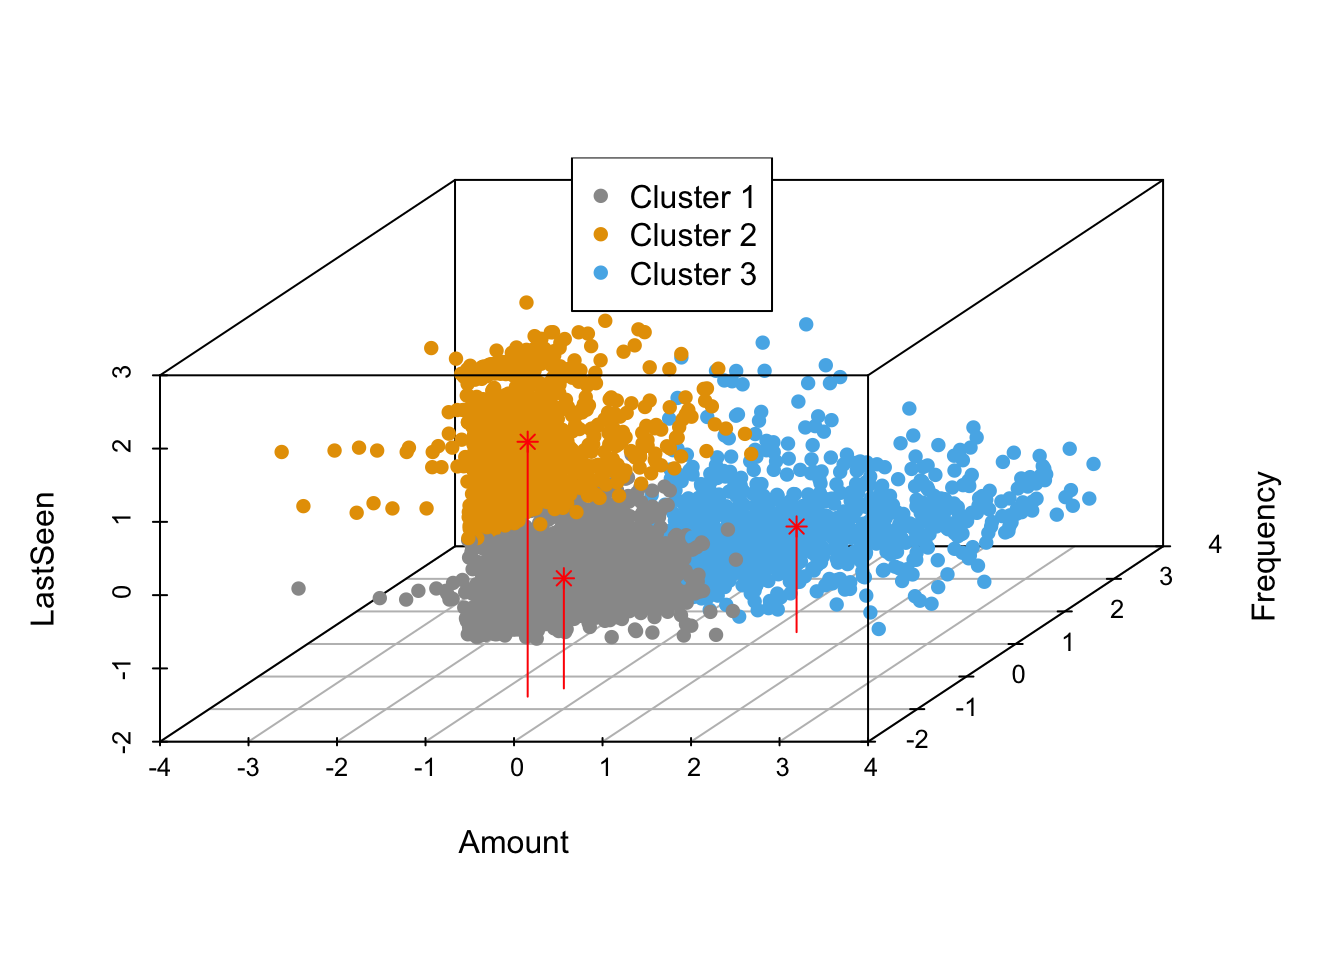
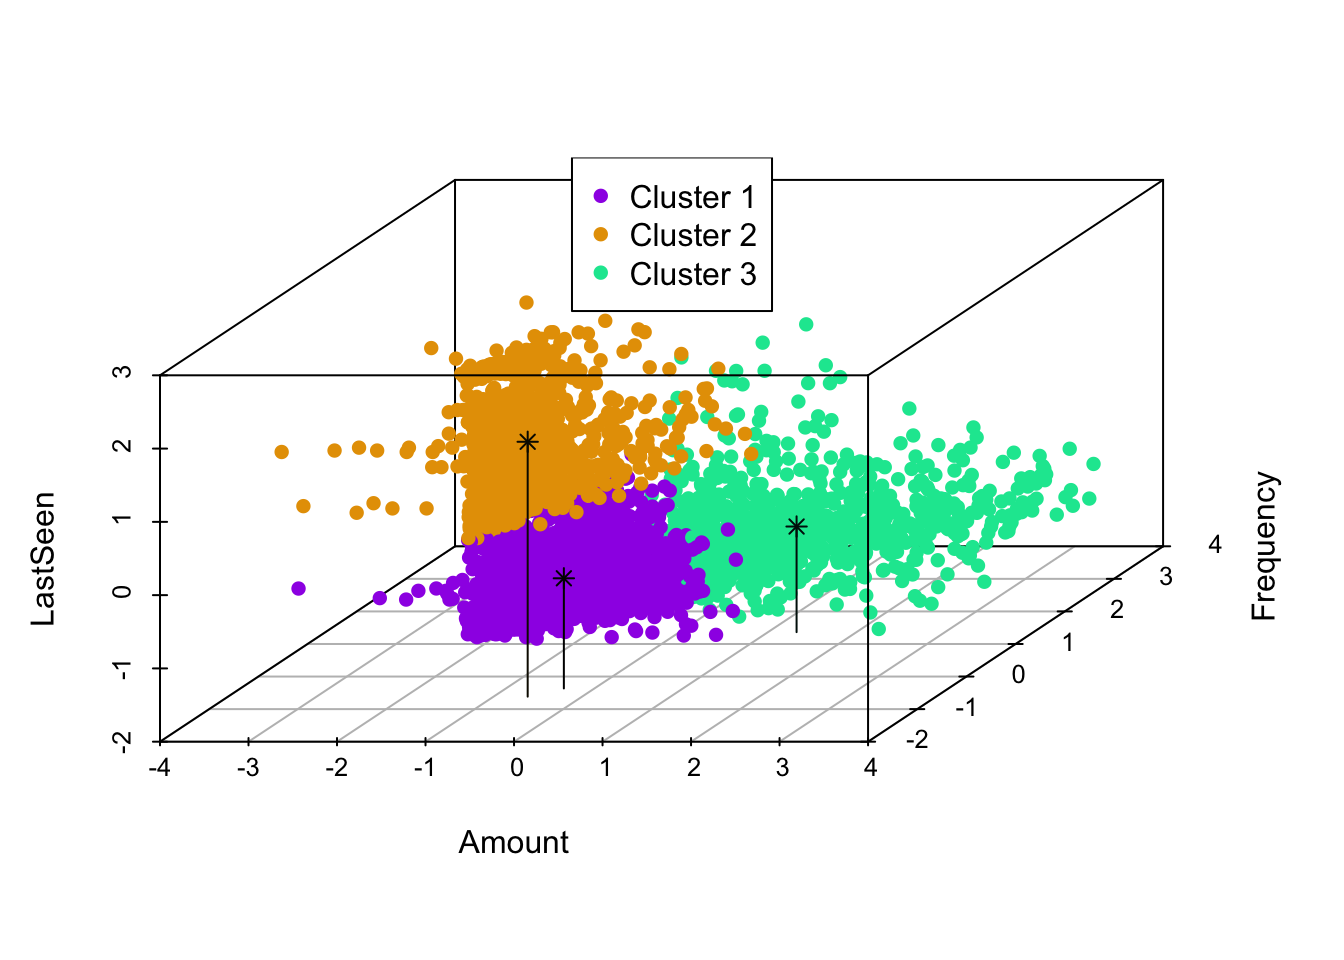
Anand's Changes

diff --git a/index.html b/index.html
@@ -861,28 +861,12 @@ K = 3
 <div class="cell">
 <details>
 <summary>Code</summary>
-<div class="sourceCode cell-code" id="cb17"><pre class="sourceCode r code-with-copy"><code class="sourceCode r"><span id="cb17-1"><a href="#cb17-1" aria-hidden="true" tabindex="-1"></a><span class="co"># centers &lt;- data.frame(c(1:3), m1.kmean$centers)</span></span>
-<span id="cb17-2"><a href="#cb17-2" aria-hidden="true" tabindex="-1"></a> </span>
-<span id="cb17-3"><a href="#cb17-3" aria-hidden="true" tabindex="-1"></a><span class="co"># names(centers)[names(centers) == "c.1.3."] &lt;- "Cluster"</span></span>
-<span id="cb17-4"><a href="#cb17-4" aria-hidden="true" tabindex="-1"></a> </span>
-<span id="cb17-5"><a href="#cb17-5" aria-hidden="true" tabindex="-1"></a></span>
-<span id="cb17-6"><a href="#cb17-6" aria-hidden="true" tabindex="-1"></a><span class="co"># centers</span></span>
-<span id="cb17-7"><a href="#cb17-7" aria-hidden="true" tabindex="-1"></a></span>
-<span id="cb17-8"><a href="#cb17-8" aria-hidden="true" tabindex="-1"></a></span>
-<span id="cb17-9"><a href="#cb17-9" aria-hidden="true" tabindex="-1"></a></span>
-<span id="cb17-10"><a href="#cb17-10" aria-hidden="true" tabindex="-1"></a><span class="co">#customer</span></span>
-<span id="cb17-11"><a href="#cb17-11" aria-hidden="true" tabindex="-1"></a> </span>
-<span id="cb17-12"><a href="#cb17-12" aria-hidden="true" tabindex="-1"></a><span class="co"># p &lt;- plot_ly(customer, x=~Amount, y=~Frequency,</span></span>
-<span id="cb17-13"><a href="#cb17-13" aria-hidden="true" tabindex="-1"></a><span class="co"># z=~LastSeen, color=~Cluster) %&gt;%</span></span>
-<span id="cb17-14"><a href="#cb17-14" aria-hidden="true" tabindex="-1"></a><span class="co">#      add_markers(size=1.5)</span></span>
-<span id="cb17-15"><a href="#cb17-15" aria-hidden="true" tabindex="-1"></a><span class="co"># print(p)</span></span>
-<span id="cb17-16"><a href="#cb17-16" aria-hidden="true" tabindex="-1"></a> </span>
-<span id="cb17-17"><a href="#cb17-17" aria-hidden="true" tabindex="-1"></a><span class="fu">fviz_cluster</span>(m1.kmean, <span class="at">data =</span> customer_scaled,</span>
-<span id="cb17-18"><a href="#cb17-18" aria-hidden="true" tabindex="-1"></a>             <span class="at">palette =</span> <span class="fu">c</span>(<span class="st">"#2E9FDF"</span>, <span class="st">"#00AFBB"</span>, <span class="st">"#E7B800"</span>),</span>
-<span id="cb17-19"><a href="#cb17-19" aria-hidden="true" tabindex="-1"></a>             <span class="at">geom =</span> <span class="st">"point"</span>,</span>
-<span id="cb17-20"><a href="#cb17-20" aria-hidden="true" tabindex="-1"></a>             <span class="at">ellipse.type =</span> <span class="st">"convex"</span>,</span>
-<span id="cb17-21"><a href="#cb17-21" aria-hidden="true" tabindex="-1"></a>             <span class="at">ggtheme =</span> <span class="fu">theme_bw</span>()</span>
-<span id="cb17-22"><a href="#cb17-22" aria-hidden="true" tabindex="-1"></a>)</span></code><button title="Copy to Clipboard" class="code-copy-button"><i class="bi"></i></button></pre></div>
+<div class="sourceCode cell-code" id="cb17"><pre class="sourceCode r code-with-copy"><code class="sourceCode r"><span id="cb17-1"><a href="#cb17-1" aria-hidden="true" tabindex="-1"></a><span class="fu">fviz_cluster</span>(m1.kmean, <span class="at">data =</span> customer_scaled,</span>
+<span id="cb17-2"><a href="#cb17-2" aria-hidden="true" tabindex="-1"></a>             <span class="at">palette =</span> <span class="fu">c</span>(<span class="st">"#2E9FDF"</span>, <span class="st">"#00AFBB"</span>, <span class="st">"#E7B800"</span>),</span>
+<span id="cb17-3"><a href="#cb17-3" aria-hidden="true" tabindex="-1"></a>             <span class="at">geom =</span> <span class="st">"point"</span>,</span>
+<span id="cb17-4"><a href="#cb17-4" aria-hidden="true" tabindex="-1"></a>             <span class="at">ellipse.type =</span> <span class="st">"convex"</span>,</span>
+<span id="cb17-5"><a href="#cb17-5" aria-hidden="true" tabindex="-1"></a>             <span class="at">ggtheme =</span> <span class="fu">theme_bw</span>()</span>
+<span id="cb17-6"><a href="#cb17-6" aria-hidden="true" tabindex="-1"></a>)</span></code><button title="Copy to Clipboard" class="code-copy-button"><i class="bi"></i></button></pre></div>
 </details>
 <div class="cell-output-display">
 <p><img src="index_files/figure-html/unnamed-chunk-26-1.png" class="img-fluid" width="672"></p>
@@ -902,6 +886,9 @@ K = 3
 <div class="cell-output-display">
 <p><img src="index_files/figure-html/unnamed-chunk-27-1.png" class="img-fluid" width="672"></p>
 </div>
+</div>
+<p>The above graph shows that the clusters 1 and 3 are seen in the store often. Cluster 3 customers are spending more whenever they visit. Cluster 2 not seen recently so spend less.</p>
+<div class="cell">
 <details>
 <summary>Code</summary>
 <div class="sourceCode cell-code" id="cb19"><pre class="sourceCode r code-with-copy"><code class="sourceCode r"><span id="cb19-1"><a href="#cb19-1" aria-hidden="true" tabindex="-1"></a><span class="fu">fviz_cluster</span>(m1.kmean, <span class="at">data =</span> customer_scaled,<span class="at">choose.vars =</span> <span class="fu">c</span>(<span class="st">"Frequency"</span>,<span class="st">"Amount"</span>),</span>
@@ -912,34 +899,43 @@ K = 3
 <span id="cb19-6"><a href="#cb19-6" aria-hidden="true" tabindex="-1"></a>             )</span></code><button title="Copy to Clipboard" class="code-copy-button"><i class="bi"></i></button></pre></div>
 </details>
 <div class="cell-output-display">
-<p><img src="index_files/figure-html/unnamed-chunk-27-2.png" class="img-fluid" width="672"></p>
+<p><img src="index_files/figure-html/unnamed-chunk-28-1.png" class="img-fluid" width="672"></p>
 </div>
+</div>
+<p>The above graph shows that the Cluster 3 are more frequently buying and hence spending more. Cluster 1 and 2 are almost having similar trends in terms of number of purchases and amount spent.</p>
+<div class="cell">
 <details>
 <summary>Code</summary>
 <div class="sourceCode cell-code" id="cb20"><pre class="sourceCode r code-with-copy"><code class="sourceCode r"><span id="cb20-1"><a href="#cb20-1" aria-hidden="true" tabindex="-1"></a><span class="fu">fviz_cluster</span>(m1.kmean, <span class="at">data =</span> customer_scaled,<span class="at">choose.vars =</span> <span class="fu">c</span>(<span class="st">"LastSeen"</span>,<span class="st">"Frequency"</span>),</span>
-<span id="cb20-2"><a href="#cb20-2" aria-hidden="true" tabindex="-1"></a>             <span class="at">palette =</span> <span class="fu">c</span>(<span class="st">"#2E9FDF"</span>, <span class="st">"#00AFBB"</span>, <span class="st">"#E7B800"</span>),</span>
+<span id="cb20-2"><a href="#cb20-2" aria-hidden="true" tabindex="-1"></a>             <span class="at">palette =</span> <span class="fu">c</span>(<span class="st">"#2E9FDF"</span>, <span class="st">"#00AFBB"</span>, <span class="st">"#E7B800"</span>), </span>
 <span id="cb20-3"><a href="#cb20-3" aria-hidden="true" tabindex="-1"></a>             <span class="at">geom =</span> <span class="st">"point"</span>,</span>
-<span id="cb20-4"><a href="#cb20-4" aria-hidden="true" tabindex="-1"></a>             <span class="at">ellipse.type =</span> <span class="st">"convex"</span>,</span>
+<span id="cb20-4"><a href="#cb20-4" aria-hidden="true" tabindex="-1"></a>             <span class="at">ellipse.type =</span> <span class="st">"convex"</span>, </span>
 <span id="cb20-5"><a href="#cb20-5" aria-hidden="true" tabindex="-1"></a>             <span class="at">ggtheme =</span> <span class="fu">theme_bw</span>()</span>
-<span id="cb20-6"><a href="#cb20-6" aria-hidden="true" tabindex="-1"></a>             )        </span></code><button title="Copy to Clipboard" class="code-copy-button"><i class="bi"></i></button></pre></div>
+<span id="cb20-6"><a href="#cb20-6" aria-hidden="true" tabindex="-1"></a>             )       </span></code><button title="Copy to Clipboard" class="code-copy-button"><i class="bi"></i></button></pre></div>
 </details>
 <div class="cell-output-display">
-<p><img src="index_files/figure-html/unnamed-chunk-27-3.png" class="img-fluid" width="672"></p>
+<p><img src="index_files/figure-html/unnamed-chunk-29-1.png" class="img-fluid" width="672"></p>
 </div>
+</div>
+<p>The above graph shows that the Cluster 1 and 3 are seen buying often and whenever they are seen buying, they make lot of purchases.</p>
+<div class="cell">
 <details>
 <summary>Code</summary>
-<div class="sourceCode cell-code" id="cb21"><pre class="sourceCode r code-with-copy"><code class="sourceCode r"><span id="cb21-1"><a href="#cb21-1" aria-hidden="true" tabindex="-1"></a>colors <span class="ot">&lt;-</span> <span class="fu">c</span>(<span class="st">"#999999"</span>, <span class="st">"#E69F00"</span>, <span class="st">"#56B4E9"</span>)</span>
+<div class="sourceCode cell-code" id="cb21"><pre class="sourceCode r code-with-copy"><code class="sourceCode r"><span id="cb21-1"><a href="#cb21-1" aria-hidden="true" tabindex="-1"></a>colors <span class="ot">&lt;-</span> <span class="fu">c</span>(<span class="st">"#9f00e6"</span>, <span class="st">"#e69f00"</span>, <span class="st">"#00e69f"</span>)</span>
 <span id="cb21-2"><a href="#cb21-2" aria-hidden="true" tabindex="-1"></a>colors <span class="ot">&lt;-</span> colors[<span class="fu">as.numeric</span>(m1.kmean<span class="sc">$</span>cluster)]</span>
 <span id="cb21-3"><a href="#cb21-3" aria-hidden="true" tabindex="-1"></a>s3d <span class="ot">&lt;-</span> <span class="fu">scatterplot3d</span>(customer_scaled, <span class="at">pch =</span> <span class="dv">16</span>, <span class="at">color=</span>colors)</span>
 <span id="cb21-4"><a href="#cb21-4" aria-hidden="true" tabindex="-1"></a><span class="fu">legend</span>(<span class="st">"top"</span>,<span class="at">legend =</span> <span class="fu">paste</span>(<span class="st">"Cluster"</span>, <span class="dv">1</span><span class="sc">:</span><span class="dv">3</span>),</span>
-<span id="cb21-5"><a href="#cb21-5" aria-hidden="true" tabindex="-1"></a>       <span class="at">col =</span>  <span class="fu">c</span>(<span class="st">"#999999"</span>, <span class="st">"#E69F00"</span>, <span class="st">"#56B4E9"</span>), <span class="at">pch =</span> <span class="dv">16</span>)   </span>
-<span id="cb21-6"><a href="#cb21-6" aria-hidden="true" tabindex="-1"></a>s3d<span class="sc">$</span><span class="fu">points3d</span>(m1.kmean<span class="sc">$</span>centers,</span>
-<span id="cb21-7"><a href="#cb21-7" aria-hidden="true" tabindex="-1"></a>             <span class="at">col =</span> <span class="st">"red"</span>, <span class="at">type =</span> <span class="st">"h"</span>, <span class="at">pch =</span> <span class="dv">8</span>)</span></code><button title="Copy to Clipboard" class="code-copy-button"><i class="bi"></i></button></pre></div>
+<span id="cb21-5"><a href="#cb21-5" aria-hidden="true" tabindex="-1"></a>       <span class="at">col =</span>  <span class="fu">c</span>(<span class="st">"#9f00e6"</span>, <span class="st">"#e69f00"</span>, <span class="st">"#00e69f"</span>), <span class="at">pch =</span> <span class="dv">16</span>)    </span>
+<span id="cb21-6"><a href="#cb21-6" aria-hidden="true" tabindex="-1"></a>centers <span class="ot">&lt;-</span> <span class="fu">data.frame</span>(m1.kmean<span class="sc">$</span>centers)</span>
+<span id="cb21-7"><a href="#cb21-7" aria-hidden="true" tabindex="-1"></a>s3dp <span class="ot">&lt;-</span> s3d<span class="sc">$</span><span class="fu">points3d</span>(centers,</span>
+<span id="cb21-8"><a href="#cb21-8" aria-hidden="true" tabindex="-1"></a>             <span class="at">col =</span> <span class="fu">c</span>(<span class="st">"#000000"</span>,<span class="st">"#0e0a00"</span>,<span class="st">"#000e0a"</span>), <span class="at">type =</span> <span class="st">"h"</span>, <span class="at">pch =</span> <span class="dv">8</span>)</span></code><button title="Copy to Clipboard" class="code-copy-button"><i class="bi"></i></button></pre></div>
 </details>
 <div class="cell-output-display">
-<p><img src="index_files/figure-html/unnamed-chunk-27-4.png" class="img-fluid" width="672"></p>
+<p><img src="index_files/figure-html/unnamed-chunk-30-1.png" class="img-fluid" width="672"></p>
 </div>
 </div>
+<p>From the above graph that depicts all the three dimensions of the clustering, we can clearly see that the customers in cluster 3 are seen shopping often, they spend more and they purchase frequently.</p>
+<p>Customers in cluster 2 are of concern. They do not visit the website often but spend almost similar to cluster 1 and also purchase as frequently as cluster 1. So, we can either target cluster 1 to make them buy when they visit store (since they are visiting often but buying less) or make cluster 2 visit often as they are buying more when they visit but visiting less.</p>
 <div class="cell">
 <details>
 <summary>Code</summary>
@@ -947,7 +943,7 @@ K = 3
 <span id="cb22-2"><a href="#cb22-2" aria-hidden="true" tabindex="-1"></a>  <span class="fu">labs</span>(<span class="at">title =</span> <span class="st">"Clusters based on Amount Spent"</span>, <span class="at">subtitle =</span> <span class="st">"K-Means Model m1.kmeans"</span>)</span></code><button title="Copy to Clipboard" class="code-copy-button"><i class="bi"></i></button></pre></div>
 </details>
 <div class="cell-output-display">
-<p><img src="index_files/figure-html/unnamed-chunk-28-1.png" class="img-fluid" width="672"></p>
+<p><img src="index_files/figure-html/unnamed-chunk-31-1.png" class="img-fluid" width="672"></p>
 </div>
 </div>
 <p>Customers in Cluster# 3 are spending more whereas cluster 2 customers are spending the least.</p>
@@ -958,7 +954,7 @@ K = 3
 <span id="cb23-2"><a href="#cb23-2" aria-hidden="true" tabindex="-1"></a>  <span class="fu">labs</span>(<span class="at">title =</span> <span class="st">"Clusters based on Number of transactions"</span>, <span class="at">subtitle =</span> <span class="st">"K-Means Model m1.kmeans"</span>)</span></code><button title="Copy to Clipboard" class="code-copy-button"><i class="bi"></i></button></pre></div>
 </details>
 <div class="cell-output-display">
-<p><img src="index_files/figure-html/unnamed-chunk-29-1.png" class="img-fluid" width="672"></p>
+<p><img src="index_files/figure-html/unnamed-chunk-32-1.png" class="img-fluid" width="672"></p>
 </div>
 </div>
 <p>Customers in Cluster# 3 are most frequent customers indicating that the frequent customers spend the most.</p>
@@ -969,7 +965,7 @@ K = 3
 <span id="cb24-2"><a href="#cb24-2" aria-hidden="true" tabindex="-1"></a>  <span class="fu">labs</span>(<span class="at">title =</span> <span class="st">"Clusters based on customer last seen shopping"</span>, <span class="at">subtitle =</span> <span class="st">"K-Means Model m1.kmeans"</span>)</span></code><button title="Copy to Clipboard" class="code-copy-button"><i class="bi"></i></button></pre></div>
 </details>
 <div class="cell-output-display">
-<p><img src="index_files/figure-html/unnamed-chunk-30-1.png" class="img-fluid" width="672"></p>
+<p><img src="index_files/figure-html/unnamed-chunk-33-1.png" class="img-fluid" width="672"></p>
 </div>
 </div>
 <p>Customers in Cluster 2 have not been seen shopping recently. The most recently seen shoppers are in Cluster 3 and that also explains why they have spent more money and bought frequently.</p>
@@ -982,7 +978,7 @@ K = 3
 <p></p><figcaption class="figure-caption">Image Source: ©Anand</figcaption><p></p>
 </figure>
 </div>
-<p>For this business, its a matter of grave concern that most of their customers (49%) are not finding what they want. The shop would need to revisit their strategy of what brand/item they should be selling in the online shop to convert visits into revenue.</p>
+<p>For this business, its a matter of concern that most of their customers (49%) are not finding what they want. The shop would need to revisit their strategy of what brand/item they should be selling in the online shop to convert visits into revenue.</p>
 </section>
 </section>
 </section>
